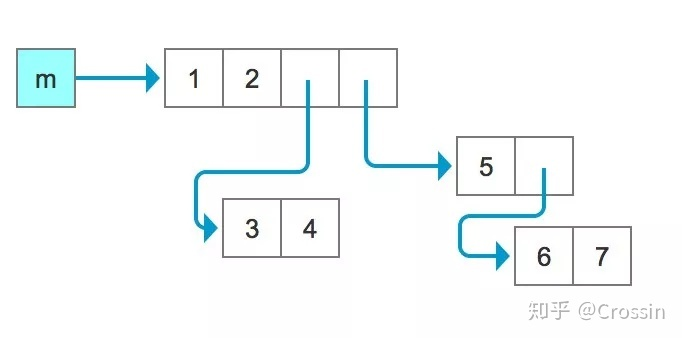
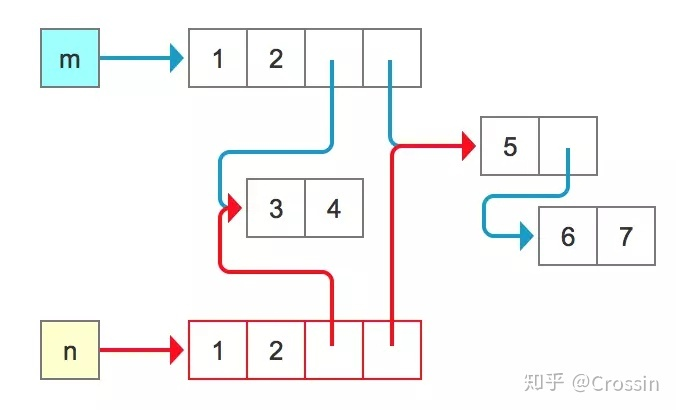
1. 更新了resource/20200212_01文件夹的资源 2. 更新了README.md中20200212_01_浅拷贝与深拷贝.py的部分

diff --git a/README.md b/README.md
@@ -719,7 +719,7 @@ PI = 3. 14159265359
                 >1. `s.clear()`是为了与不支持切片操作的可变容器(例如`dict`和`set`)的接口保持一致。 
         * s.copy()  
             * 结果  
-                创建一个s的<a href = '#浅拷贝'>浅拷贝</a>，等同于`copy.copy(s)`、`s[:]`和`list(s)`  
+                创建一个s的浅拷贝，等同于`copy.copy(s)`、`s[:]`和`list(s)`  
             * 备注  
                 >1. `s.copy()`是为了与不支持切片操作的可变容器(例如`dict`和`set`)的接口保持一致。  
                 >2. `copy()`不是`collections.abc.MutableSequence ABC`的一部分，但大多数具体的可变序列类都提供了它  
@@ -761,4 +761,90 @@ PI = 3. 14159265359
             * 备注  
                 >1. `s.reverse()`不是创建s的逆序副本，而是对s自身进行修改  
                 >2. `s.reverse()`并不会返回反转后的序列  
-        
+### [![avatar](https://img.shields.io/badge/20200212--01-浅拷贝与深拷贝-red)](https://github.com/peterliu502/Hello_Python/blob/master/20200212_01_浅拷贝与深拷贝.py)                        
+***
+#### __time__  
+2020-02-12
+#### __content__  
+##### ![avatar](https://img.shields.io/badge/关键概念-赋值-yellowgreen)  
+* 常用方法  
+    `identifier = object`  
+* 解释  
+    使一个变量（官方称之为标识符（`identifier`））建立起与对象的引用  
+* 备注  
+    >1. 与`C`、`C++`等语言不同，变量（标识符）本身无类型，与之绑定的对象有类型  
+    >2. `=`是赋值的关键，大部分情况下有无严格的`identifier =`可以区分操作是修改对象还是再赋值，比如`s = s + t`和`s += t`、`s = s * t`和`s *= t`、`s.expend(t)`和`s = s + t`  
+    >>请看下面这个例子：  
+    >>```python
+    >>def func(m):
+    >>    m[0] = 20
+    >>    m = [4, 5, 6]
+    >>    return m
+    >>
+    >>
+    >>l = [1, 2, 3]
+    >>func(l)
+    >>print('l =', l)
+    >>```
+    >>l被赋值为`[1, 2, 3]`,所以在`func(l)`在传参时x也被赋值为`func(l)`，`m[0] = 20`将被引对象修改为`[20, 2, 3]`,l因为引用同一个对象所以也同步更新为`[20, 2, 3]`，而`m = [4, 5, 6]`则是对m的重新赋值，所以m和原list对象`[20, 2, 3]`脱离关系  
+    因为l不受m的再次赋值的影响，所以最终的值为`[20, 2, 3]`  
+    >3. 函数传参数就相当于对形参进行赋值，而非`C`、`C++`意义上的传值或传引用  
+    >4. 赋值的过程如下面的代码与图片所示：  
+    >```python
+    >a = 1
+    >print('a', a, id(a))
+    >b = 2
+    >print('b', b, id(b))
+    >c = 1
+    >print('c', c, id(c))
+    ># 再次赋值
+    >a = b
+    >print('a', a, id(a))
+    >```
+    >```
+    >输出结果：  
+    >a 1 4301490544
+    >b 2 4301490576
+    >c 1 4301490544
+    >a 2 4301490576
+    >```  
+    >![avatar](https://raw.githubusercontent.com/peterliu502/Hello_Python/master/resource/20200212_01/赋值.jpg)  
+##### ![avatar](https://img.shields.io/badge/关键概念-浅拷贝-yellowgreen)  
+* 常用方法  
+    `import copy`  
+    `copy.copy()`  
+* 解释  
+    浅拷贝生成的对象自身使用新的内存地址，而其一维元素和更高维的元素仍是被拷贝对象的引用  
+* 备注  
+    >1. 对于多维可变类型对象来说非常容易产生浅拷贝现象，比如拼接等操作  
+    >2. 浅拷贝对象与被拷贝对象的关系示意图：  
+    ![avatar](https://raw.githubusercontent.com/peterliu502/Hello_Python/master/resource/20200212_01/深浅拷贝1.jpg)  
+##### ![avatar](https://img.shields.io/badge/关键概念-深拷贝-yellowgreen)  
+* 常用方法  
+    `import copy`  
+    `copy.deepcopy()`  
+* 解释  
+    深拷贝生成的对象自身、一维元素和更高维的元素都使用新的内存地址  
+* 备注  
+    >* 当被引对象中存在多个项引用同一对象的情况，请参看下面的代码：  
+    >>```python
+    >>from copy import deepcopy
+    >>a = [3, 4]
+    >>m = [1, 2, a, [5, a]]
+    >>n = deepcopy(m)
+    >>n[3][1][0] = -1
+    >>print(n)
+    >>print(m)
+    >>print(a)
+    >>```
+    >>```
+    >>输出结果：
+    >>[1, 2, [-1, 4], [5, [-1, 4]]]
+    >>[1, 2, [3, 4], [5, [3, 4]]]
+    >>[3, 4]
+    >>```
+    >>m中的a只是起到引用同一个`list`对象`[3, 4]`的作用，可以理解为a只是这个list对象的别名，他俩是绑定关系  
+    `deepcopy()`对各层元素都会建立副本，所以`m[2]`和`m[3][1]`指向的都是list对象`[3, 4]`的副本，而非本体  
+    所以`m[2]`和`m[3][1]`和原本的list对象`[3, 4]`以及a都没有关系了    
+    >* 深拷贝对象与被拷贝对象的关系示意图：  
+    ![avatar](https://raw.githubusercontent.com/peterliu502/Hello_Python/master/resource/20200212_01/深浅拷贝2.jpg)        
